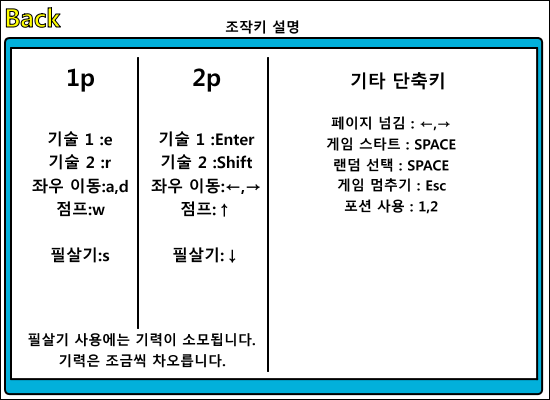
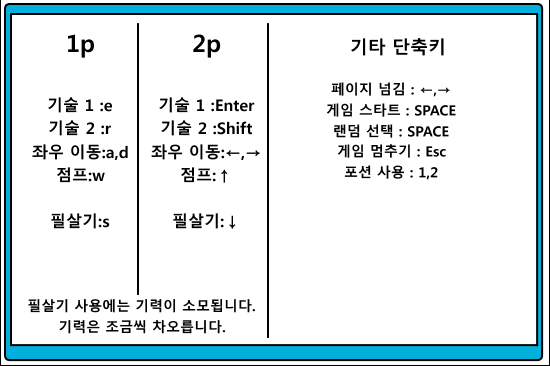
rule_mode 뒤로가기 버튼 개발 완료

diff --git a/rule_mode.py b/rule_mode.py
@@ -3,40 +3,53 @@ import game_framework
 import title_mode
 
 rule_image = None
-
+show_back_red = False
+back_red_image = None
+back_image = None
 
 def init():
-    global rule_image
+    global rule_image, back_red_image, back_image
     rule_image = load_image('./Background/Key.png')
-
+    back_red_image = load_image('./Background/back(red).png')
+    back_image = load_image('./Background/back.png')
 
 def finish():
-    global rule_image
+    global rule_image, back_red_image, back_image
+    del back_red_image
     del rule_image
+    del back_image
 
 
 def update():
     pass
 
 def handle_events():
+    global show_back_red
     event_list = get_events()
     for event in event_list:
         if event.type == SDL_QUIT:
             game_framework.quit()
         elif event.type == SDL_KEYDOWN and event.key == SDLK_ESCAPE:
             game_framework.quit()
-        elif event.type == SDL_MOUSEBUTTONDOWN and event.button == SDL_BUTTON_LEFT:
+        elif event.type == SDL_MOUSEMOTION:
             # 마우스 클릭 좌표 계산
             mouse_x = event.x
             mouse_y = 400 - 1 - event.y  # 캔버스 높이가 400
-            print(f"마우스 클릭: ({mouse_x}, {mouse_y})")
 
-            if 10 <= mouse_x <= 60 and 370 <= mouse_y <= 390:
+            if 470 <= mouse_x <= 530 and 20 <= mouse_y <= 40:
+                show_back_red = True
+            else:
+                show_back_red = False
+        elif event.type == SDL_MOUSEBUTTONDOWN and event.button == SDL_BUTTON_LEFT:
+            if show_back_red:
                 game_framework.change_mode(title_mode)
-                print(f"Back버튼 클릭!")
+
 
 def draw():
     clear_canvas()
-    rule_image.draw(277, 200)
+    rule_image.clip_draw(0, 10, 550, 400, 277, 200)
+    if show_back_red:
+        back_red_image.draw(500, 30)
+    else:
+        back_image.draw(500, 30)
     update_canvas()
-
